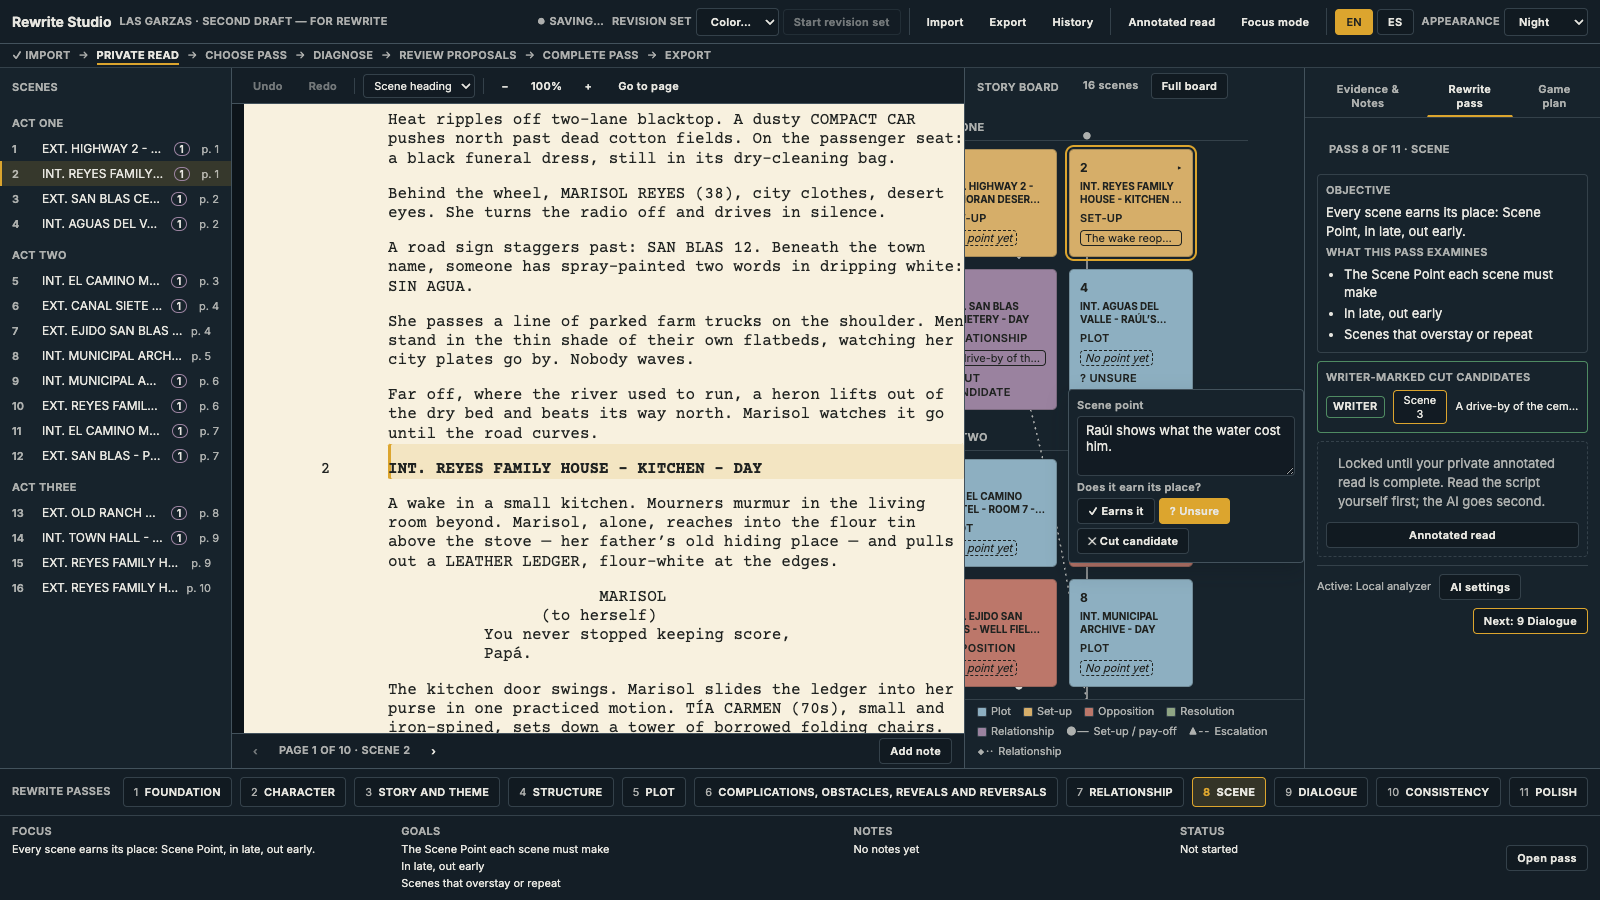
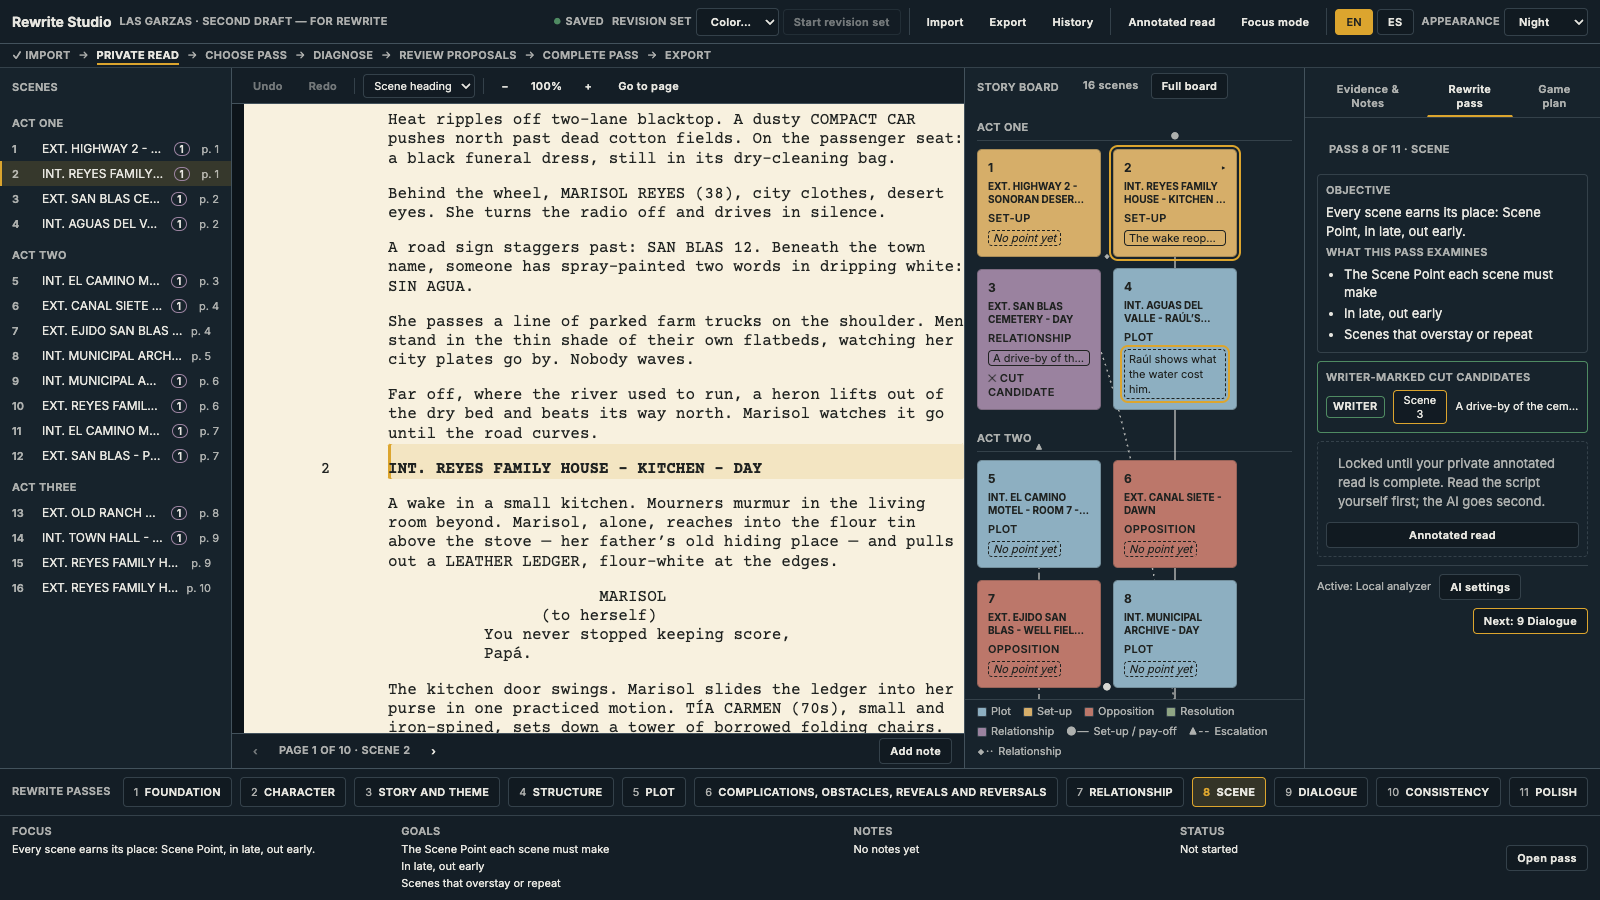
epps M2R2 proof: in-card editing shots, README, handoff records the act-on-the-object principle

Changed region(s): [[0.5938, 0.1244, 0.8125, 0.7778], [0.3438, 0.0, 0.375, 0.0311]]

diff --git a/docs/HANDOFF.md b/docs/HANDOFF.md
@@ -6,9 +6,9 @@ Billy approved `docs/plans/2026-07-12-epps-methodology-phase.md` (M1–M7) with 
 
 **M2 (Scene Point) is built, committed (`epps M2:`), and proven** after Billy accepted M1 — ScenePointCard in the Evidence tab (book placeholder, earns/unsure/cut verdict as words+icons, EXT-chipped dynamics sub-fields), "No point yet" board chips, analyzer scene lens citing exactly the unpointed scenes, writer-marked cut candidates in the Scene pass workspace, additive persistence. Proof: `docs/proof/epps/02*.png`. Counts after M2: **268 unit / 52 Playwright / build exit 0**. (Axe lesson: no reduced-opacity text on tinted cards — it fails AA contrast.)
 
-**M2R (inline Scene Point on board cards, Billy's direct-manipulation note) is built, committed (`epps M2R:`), and proven** — the card is now a frame (div) holding the main select/drag button plus a chip button (nested buttons fail axe); clicking "No point yet" opens an in-place popover (Enter saves / Escape cancels / blur saves, focus returns to the chip), the same popover sets the verdict, cards show point previews and UNSURE/CUT CANDIDATE word markers, the popover scrolls itself into view on open. `data-scene-card` stays on the main button; connections and drag tests use `data-card-frame`. Counts after M2R: **273 unit / 53 Playwright / build exit 0**. Proof: `docs/proof/epps/02c-02d`. Billy's standing preference: direct manipulation on the object itself over panel-only editing — carry this into M3+ (e.g. marking set-ups/payoffs should work from the line/card, not only a panel).
+**M2R (direct in-card Scene Point editing) is built, committed (`epps M2R:` + `epps M2R2:`), and proven.** Billy REJECTED the first popover version ("too indirect, opens behind cards") — his standing product principle, verbatim: **"Act on the object itself first. Panels are for deeper detail."** The accepted version: the dotted "No point yet" chip itself becomes an editable textarea inside the card (card grows; Enter saves / Escape cancels / blur saves; focus returns to the chip; tests assert NO popover/dialog renders). Verdict editing stays in the inspector; cards mirror it with UNSURE / CUT CANDIDATE word markers. Card structure: frame div (`data-card-frame`, used by connections + drag tests) holding the main select/drag button (`data-scene-card`) plus the chip/editor — nested buttons fail axe. Counts after M2R2: **273 unit / 53 Playwright / build exit 0**. Proof: `docs/proof/epps/02c-02d`. Carry the act-on-the-object principle into M3+ (mark set-ups/payoffs from the line/card, not only a panel) — and never introduce floating popovers on the board.
 
-**Next action: WAIT for Billy's verdict on M2R, then execute M3 (Set-Up / Payoff map) per the plan. Do not start M3 unprompted.**
+**Next action: WAIT for Billy's verdict on the M2R revision, then execute M3 (Set-Up / Payoff map) per the plan. Do not start M3 unprompted.**
 
 ## Where the previous pass left off
 

diff --git a/docs/proof/epps/README.md b/docs/proof/epps/README.md
@@ -32,15 +32,18 @@ cd /Users/quantumcode/CODE/REWRITING-GAUNTLET && node scripts/proof-epps.mjs
    visibly separate from AI findings; AI diagnosis still locked behind the
    private read.
 
-## M2R — inline Scene Point on the board (2026-07-13, Billy's direct-manipulation note)
+## M2R — direct in-card Scene Point editing (2026-07-13, Billy's direct-manipulation note, revised: no popover)
 
-6. `02c-inline-editor-open.png` — the in-place editor open on the Scene 4 card:
-   point typed, "Unsure" chosen in the same popover. Enter saves, Escape
-   cancels, clicking away saves. Neighboring cards show the three chip states
-   at once: "No point yet" (dashed), point preview, CUT CANDIDATE marker.
+6. `02c-inline-editor-open.png` — the dotted "No point yet" box on the Scene 4
+   card IS the editor: the point is being typed directly inside the card,
+   which grew slightly. No popover, no floating box (tests assert none
+   renders). Enter saves, Escape cancels, clicking away saves. Neighbors show
+   the other chip states: dashed "No point yet", Scene 2's preview, Scene 3's
+   CUT CANDIDATE marker.
 7. `02d-inline-saved-inspector-matches.png` — after Enter: the card shows the
    point preview and "? UNSURE" marker, and the Evidence tab's Scene Point
    card carries the identical point with Unsure pressed — one store, two
-   surfaces, zero drift.
+   surfaces, zero drift. Verdict editing lives in the inspector; the card
+   mirrors it.
 
 Later slices (M3–M7) append shots 03–08 here.
